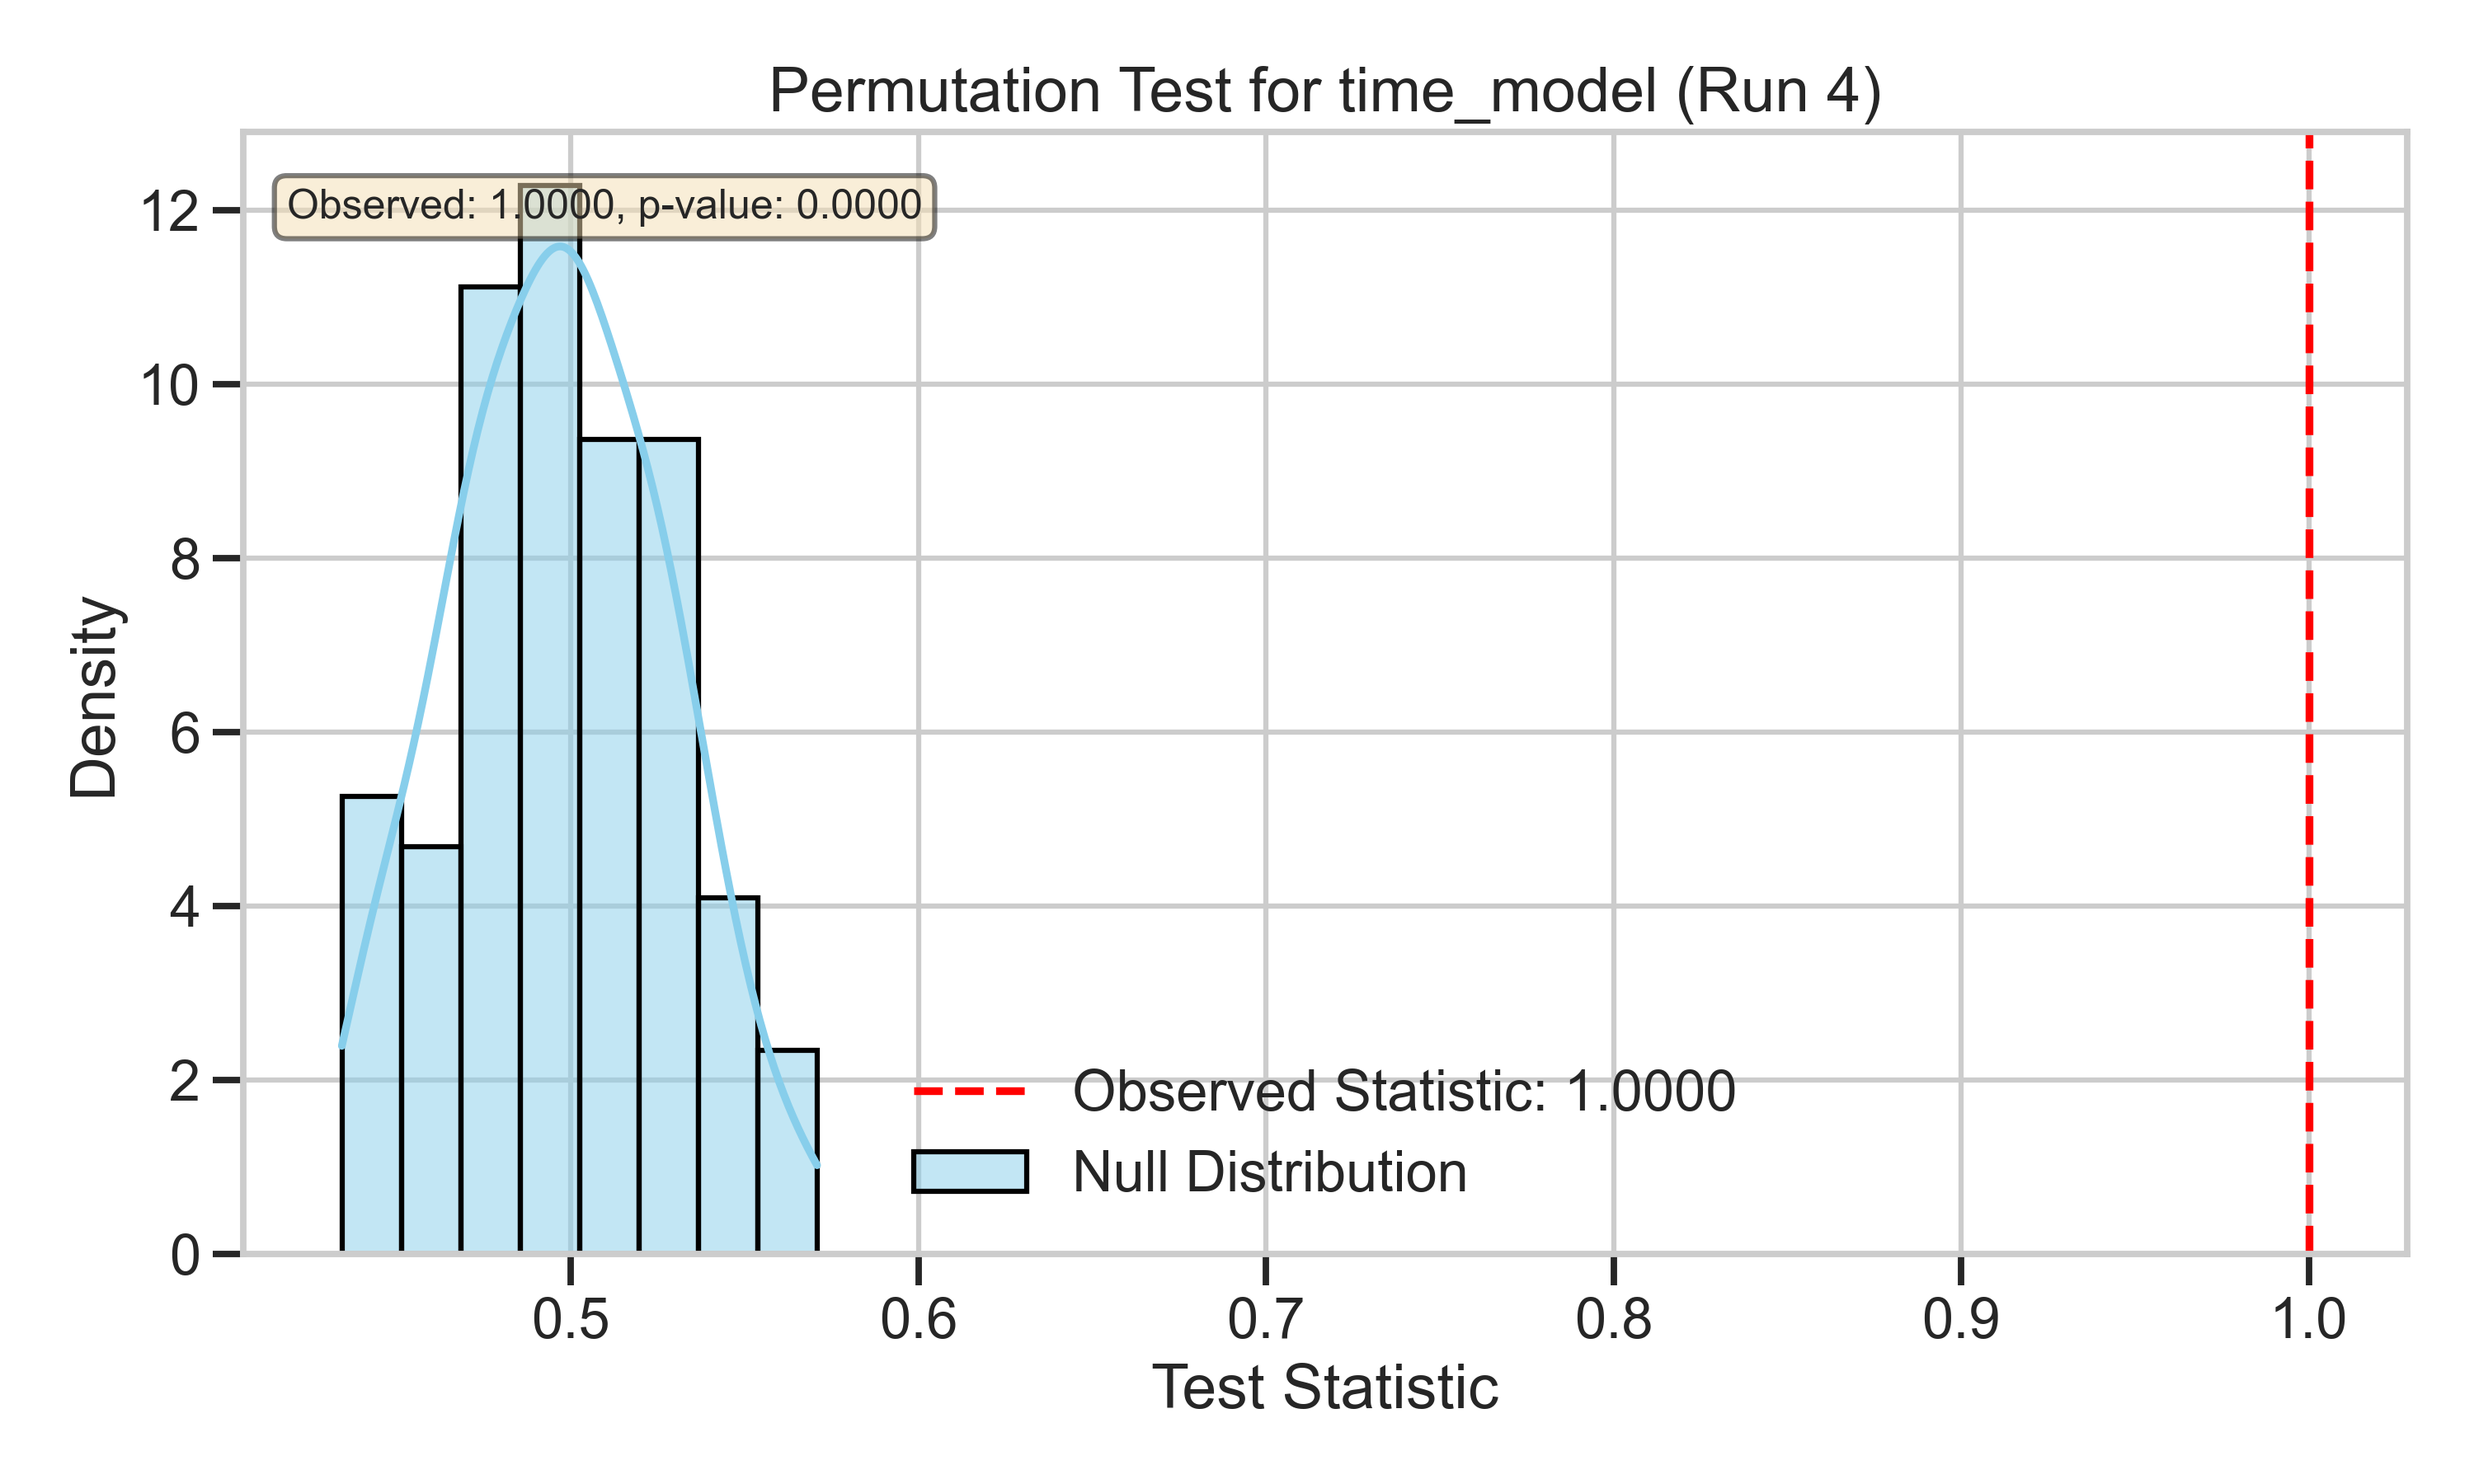
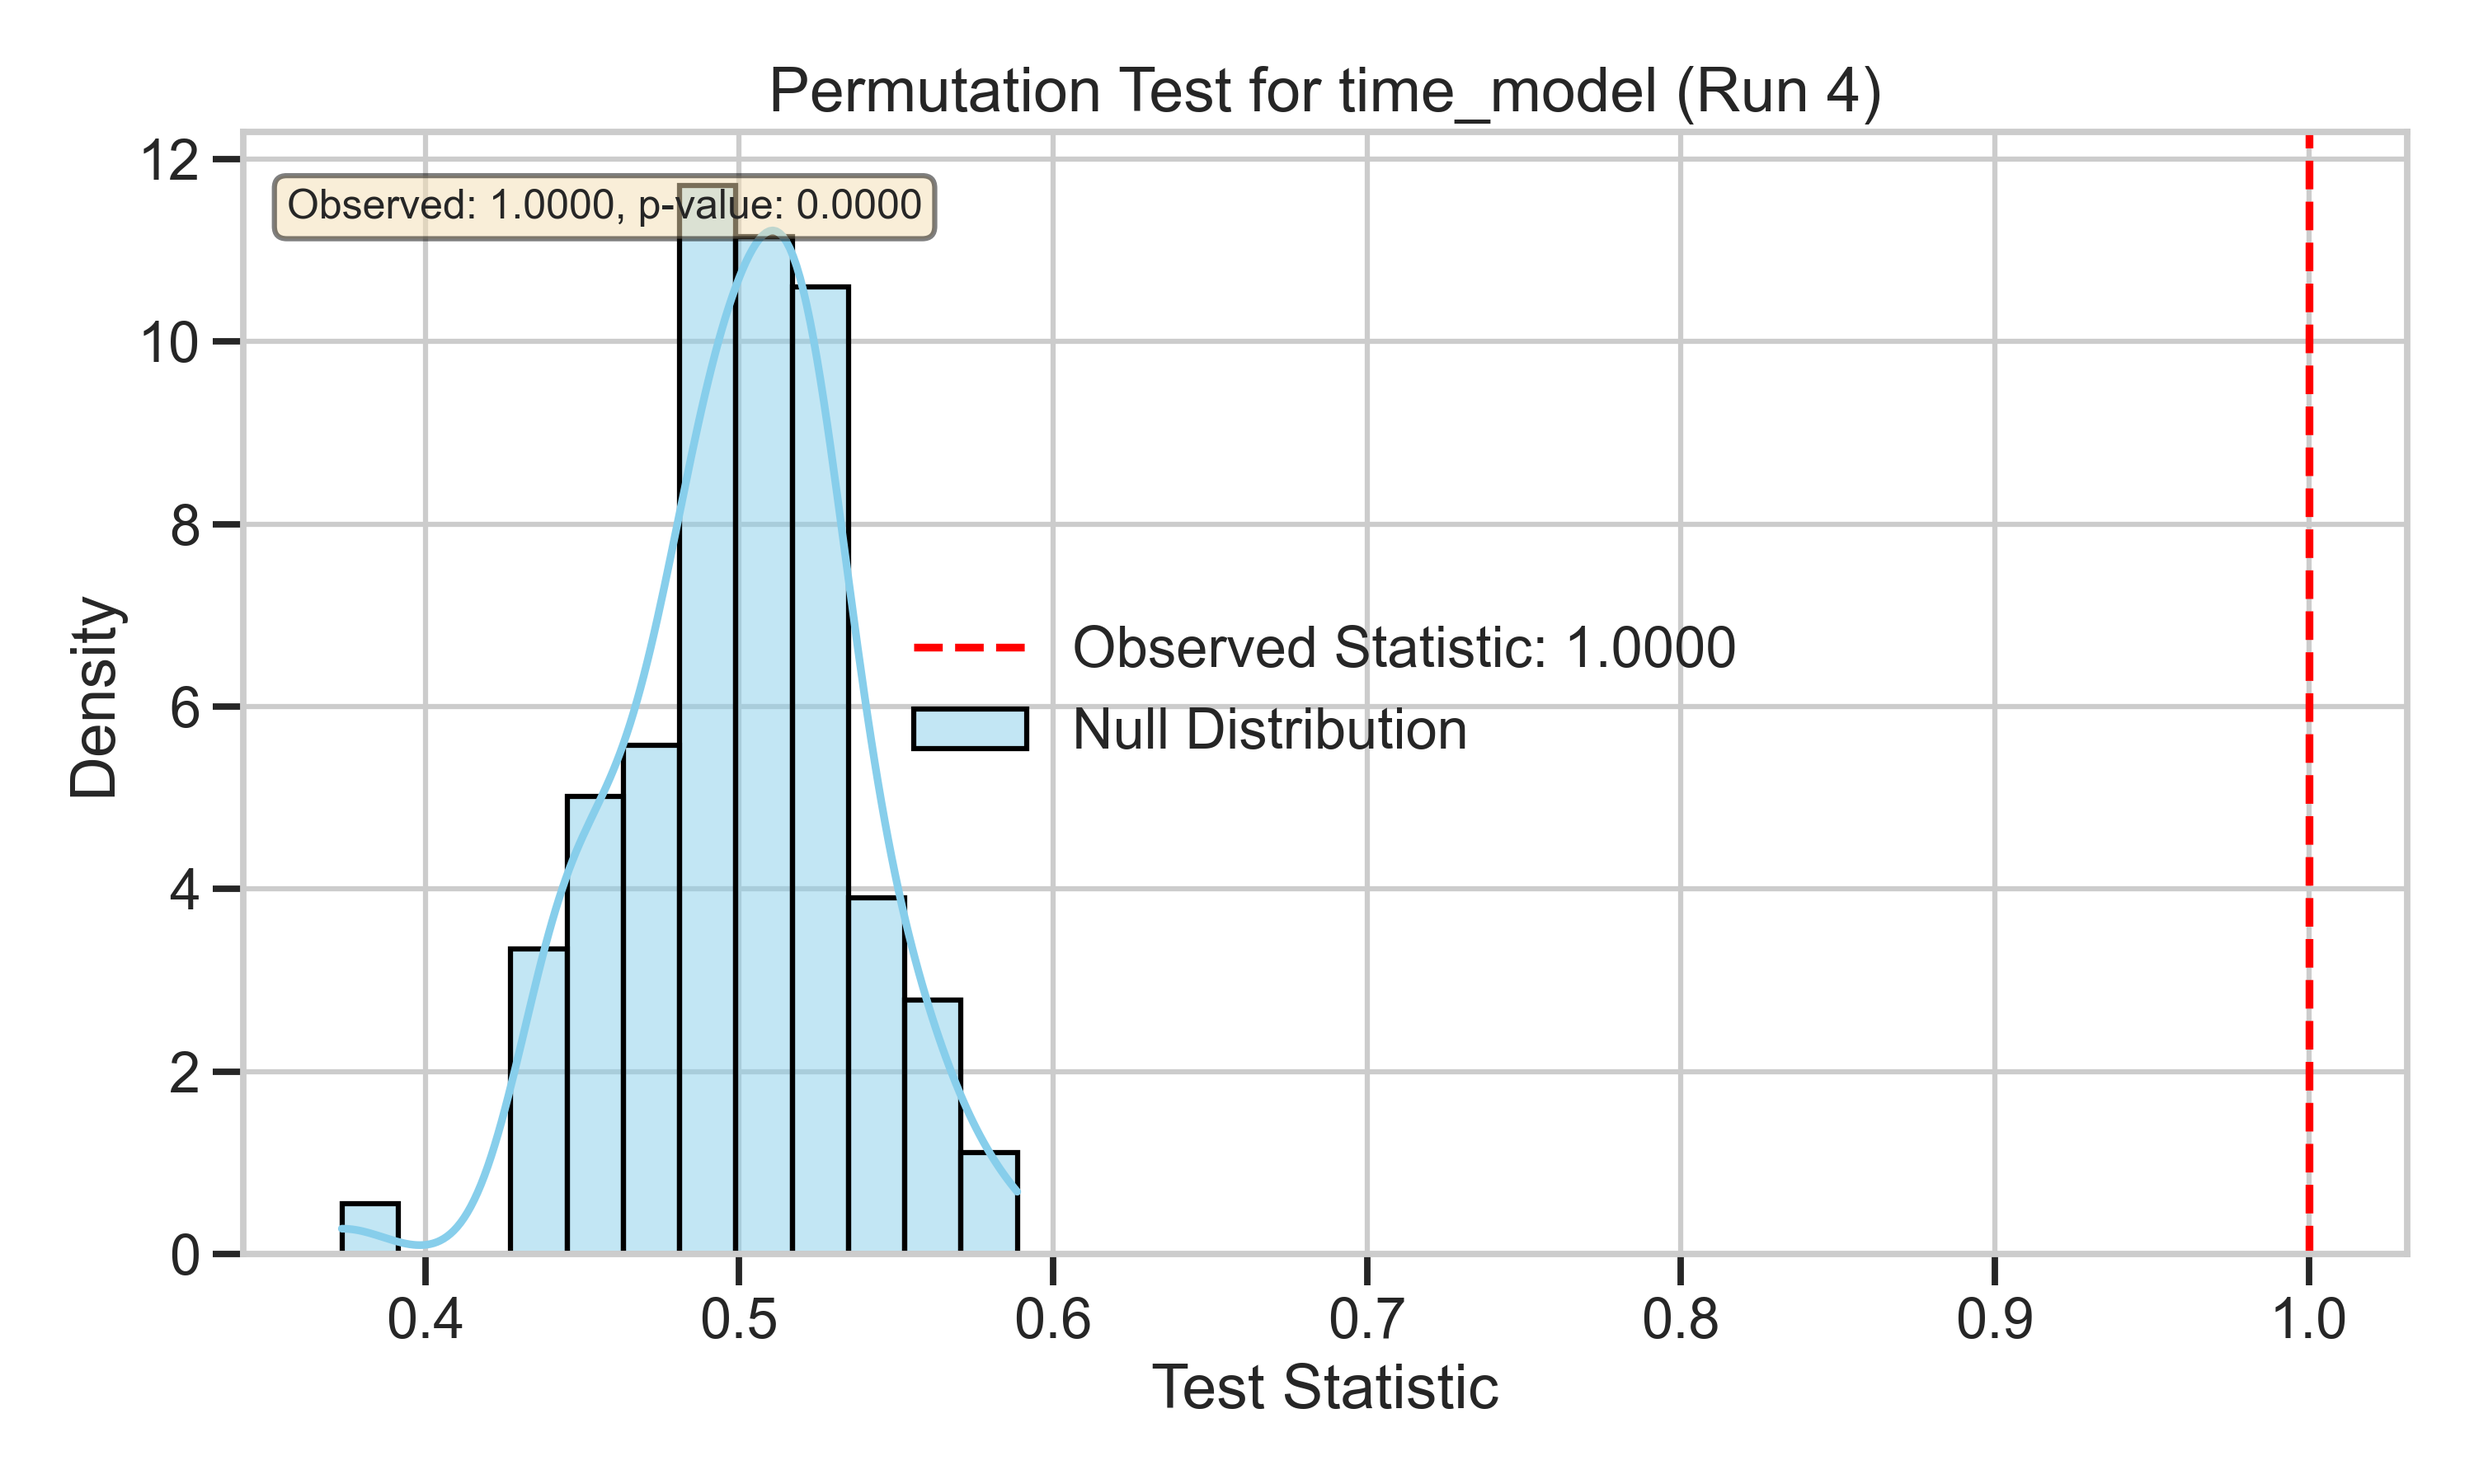
Update hypothesis testing results and adjust parameters for LSTM model

diff --git a/src/hypothesis_testing.py b/src/hypothesis_testing.py
@@ -50,12 +50,12 @@ def load_and_preprocess_data() -> pd.DataFrame:
         pd.DataFrame: Combined preprocessed dataset
     """
     real_data = pd.read_csv(
-        r"D:\resnet-bilstm-attention-dt\datasrc\real\real_factorydata_oclog.csv",
+        r"C:\resnet-bilstm-attention-dt\datasrc\real\real_factorydata_oclog.csv",
         parse_dates=["start_time", "end_time"],
         index_col="process_execution_id",
     )
     sim_data = pd.read_csv(
-        r"D:\resnet-bilstm-attention-dt\datasrc\sim\simulated_data_oclog.csv",
+        r"C:\resnet-bilstm-attention-dt\datasrc\sim\simulated_data_oclog.csv",
         parse_dates=["start_time", "end_time"],
         index_col="process_execution_id",
     )
@@ -1000,19 +1000,20 @@ if __name__ == "__main__":
 
     # Set the evaluation metric
     metric = "roc_auc"  # Using roc_auc as the metric instead of accuracy
+    model_type = "lstm"  # Change to "lstm" if you want to test with BiLSTM
 
-    """For LSTM: Alpha is set to 0.05, and the number of runs is set to 10., Permutations is 100
-    for DT: Alpha is set to 0.01, and the number of runs is set to 10., Permutations is 1000
+    """For LSTM: Alpha is set to 0.01, and the number of runs is set to 10., Permutations is 200
+    for DT: Alpha is set to 0.05, and the number of runs is set to 10., Permutations is 1000
     """
     # Run the hypothesis tests
     results = multiple_runs_hypothesis_test(
         final_data,
         feature_subsets,
         n_runs=10,  # Number of runs with different random seeds
-        n_permutations=100,  # Number of permutations for each test
+        n_permutations=200,  # Number of permutations for each test
         test_size=0.2,
-        alpha=0.05,
-        model_type="lstm",  # dt or lstm
+        alpha=0.01,
+        model_type=model_type,  # dt or lstm
         metric=metric,  # Pass the defined metric
         output_dir="hypothesis_results",
         max_depth=5,  # Additional parameter for the decision tree
@@ -1026,8 +1027,7 @@ if __name__ == "__main__":
             f"SBDT Component '{component}': {conclusion} (Rejection Rate: {res['rejection_rate']:.2f}, Mean {metric.upper()}: {res['mean_observed_stat']:.4f})"
         )
 
-    # Generate plots for existing results (optional - add this if you want to generate plots for already saved data)
-    model_type = "lstm"  # Change as needed to dt or lstm
+    # Generate plots for existing results (optional - add this if you want to generate plots for already saved data)  # Change as needed to dt or lstm
     results_dir = f"hypothesis_results/{model_type}"
 
     if os.path.exists(results_dir):
